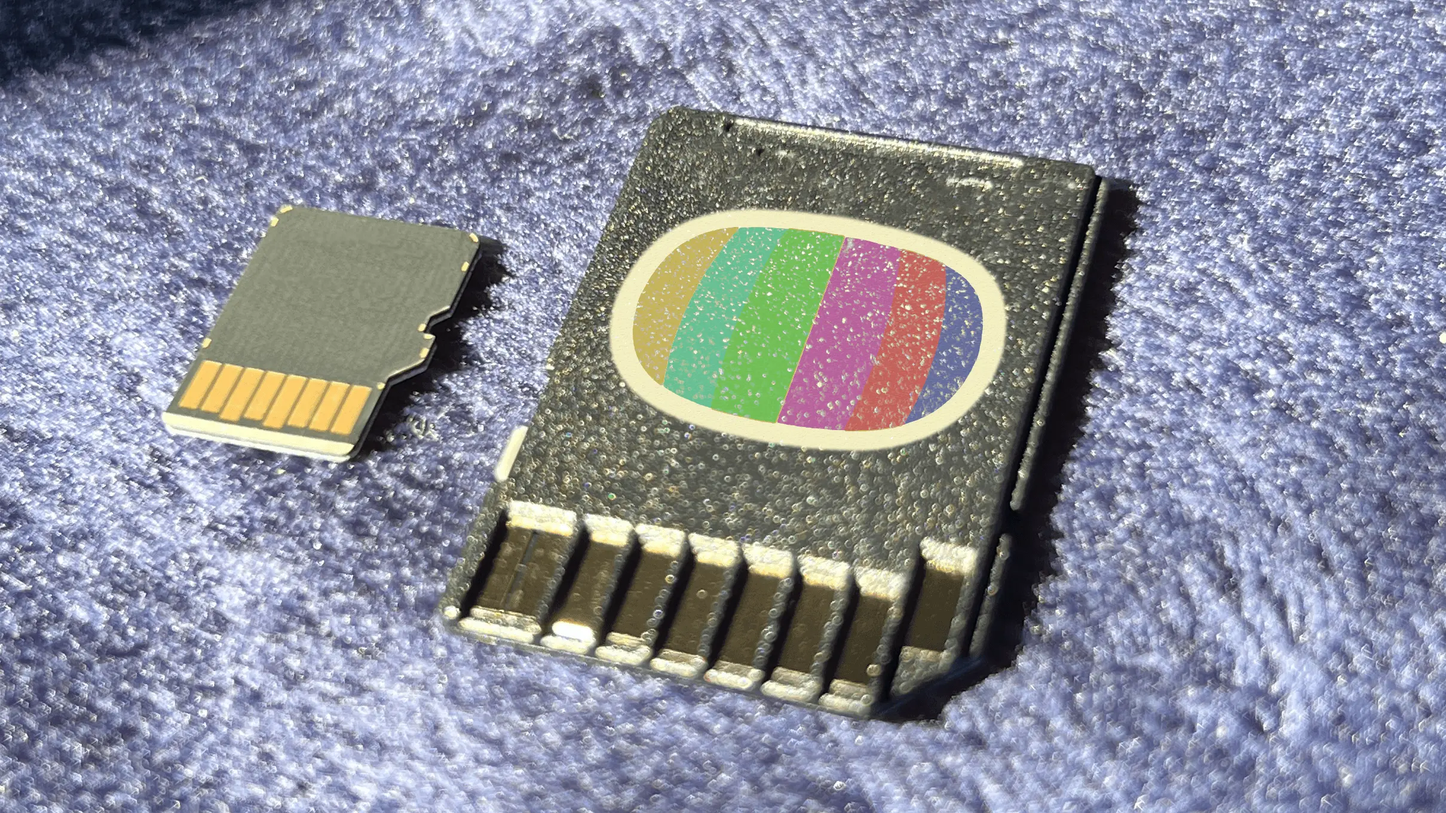
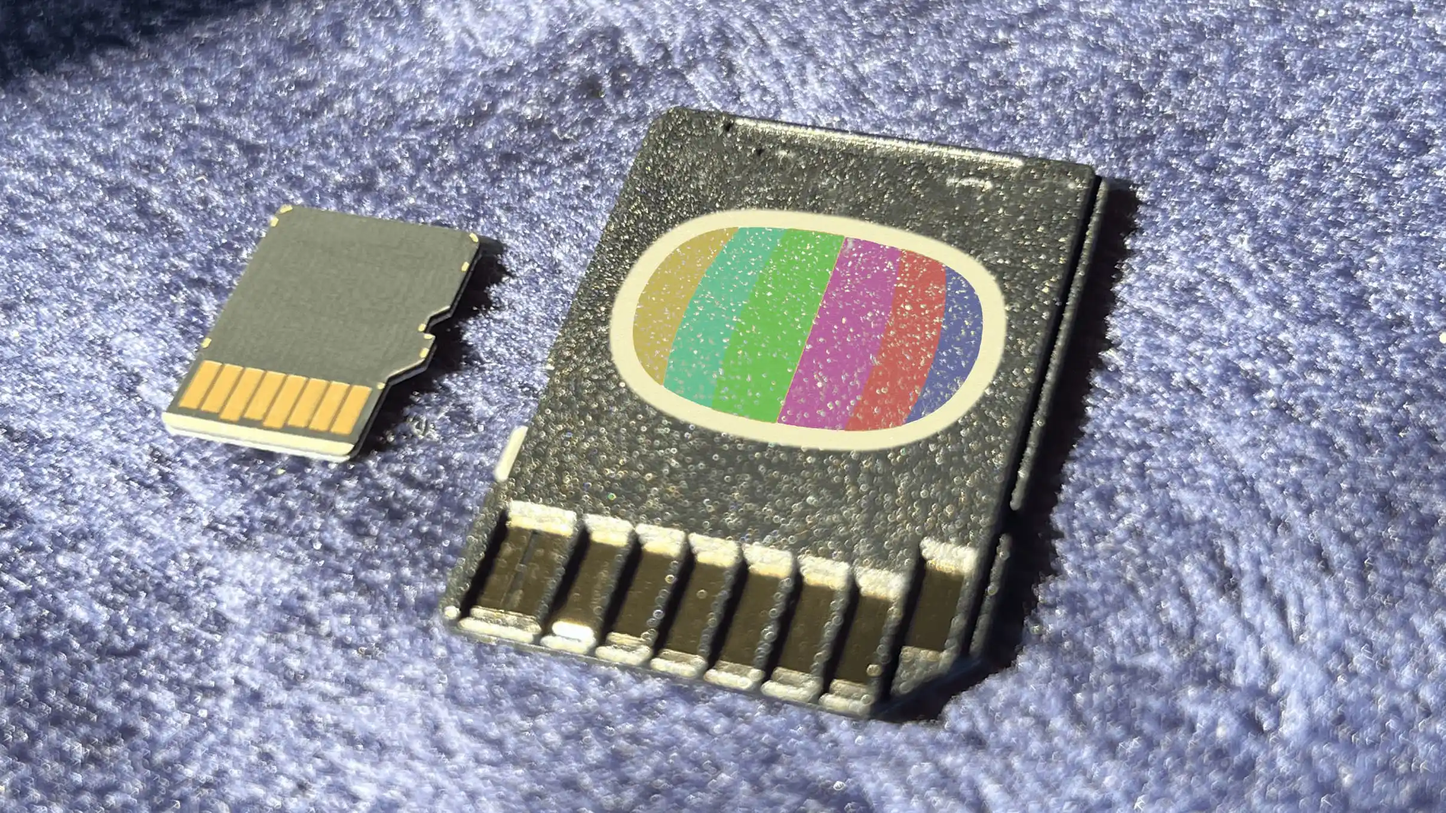
.webp

diff --git a/20250524.html b/20250524.html
@@ -9,7 +9,7 @@
     <link
       rel="icon"
       type="image/x-icon"
-      href="Media/Images/Square44x44Logo.targetsize-32.png"
+      href="Media/Images/Square44x44Logo.targetsize-32.webp"
     />
     <link
       rel="preload"
@@ -106,25 +106,25 @@
   <body> 
     <h2>20250524</h2>
   <br />
-  <img src="..\Media\Images\20250524\Scan_20250524 (1).png" alt="HTML5 Icon" loading="lazy" >
+  <img src="..\Media\Images\20250524\Scan_20250524 (1).webp" alt="HTML5 Icon" loading="lazy" >
   <br />
   <br />
-  <img src="..\Media\Images\20250524\Scan_20250524 (2).png" alt="HTML5 Icon" loading="lazy" >
+  <img src="..\Media\Images\20250524\Scan_20250524 (2).webp" alt="HTML5 Icon" loading="lazy" >
   <br />
   <br />
-  <img src="..\Media\Images\20250524\Scan_20250524 (3).png" alt="HTML5 Icon" loading="lazy" >
+  <img src="..\Media\Images\20250524\Scan_20250524 (3).webp" alt="HTML5 Icon" loading="lazy" >
   <br />
   <br />
-  <img src="..\Media\Images\20250524\Scan_20250524 (4).png" alt="HTML5 Icon" loading="lazy" >
+  <img src="..\Media\Images\20250524\Scan_20250524 (4).webp" alt="HTML5 Icon" loading="lazy" >
   <br />
   <br />
-  <img src="..\Media\Images\20250524\Scan_20250524 (5).png" alt="HTML5 Icon" loading="lazy" >
+  <img src="..\Media\Images\20250524\Scan_20250524 (5).webp" alt="HTML5 Icon" loading="lazy" >
   <br />
   <br />
-  <img src="..\Media\Images\20250524\Scan_20250524 (6).png" alt="HTML5 Icon" loading="lazy" >
+  <img src="..\Media\Images\20250524\Scan_20250524 (6).webp" alt="HTML5 Icon" loading="lazy" >
   <br />
   <br />
-  <img src="..\Media\Images\20250524\Scan_20250524 (7).png" alt="HTML5 Icon" loading="lazy" >
+  <img src="..\Media\Images\20250524\Scan_20250524 (7).webp" alt="HTML5 Icon" loading="lazy" >
    <br />
 
   <br />

diff --git a/email.html b/email.html
@@ -10,7 +10,7 @@
   <link
     rel="icon"
     type="image/x-icon"
-    href="Media/Images/Square44x44Logo.targetsize-32.png"
+    href="Media/Images/Square44x44Logo.targetsize-32.webp"
   />
   <style>
       body {
@@ -172,7 +172,7 @@ button:hover{
  📧 EMail List
   </h3>
   <br />
-<img src="..\Media\Images\cornersky.jpg" alt="HTML5 Icon" loading="lazy" >
+<img src="..\Media\Images\cornersky.webp" alt="HTML5 Icon" loading="lazy" >
   <br />
   <br />
   
@@ -191,7 +191,7 @@ button:hover{
     -webkit-transform: scale(1);
     transform-origin: 0 0;
     -webkit-transform-origin: 0 0;
-    height: ;
+    height: auto;
     }
 
     .sr-only {

diff --git a/index.html b/index.html
@@ -9,7 +9,7 @@
     <link
       rel="icon"
       type="image/x-icon"
-      href="Media/Images/Square44x44Logo.targetsize-32.png"
+      href="Media/Images/Square44x44Logo.targetsize-32.webp"
     />
     <link
       rel="preload"
@@ -110,7 +110,7 @@
   <br />
   </header>
   <body> 
-  <img src="..\Media\Images\underconstruciton seal.jpg" alt="HTML5 Icon" loading="lazy" >
+  <img src="..\Media\Images\underconstruciton seal.webp" alt="HTML5 Icon" loading="lazy" >
       <h2></h2>
       <h3>entries</h3>
       <button onclick="window.location.href = '20250524';">20250524</button>

diff --git a/about.html b/about.html
@@ -10,7 +10,7 @@
   <link
     rel="icon"
     type="image/x-icon"
-    href="Media/Images/Square44x44Logo.targetsize-32.png"
+    href="Media/Images/Square44x44Logo.targetsize-32.webp"
   />
   <style>
       body {
@@ -98,7 +98,7 @@
   <h3>
  ❓ About 
   </h3><br />
-  <img src="..\Media\Images\flashed circuit.png" alt="HTML5 Icon" loading="lazy" >
+  <img src="..\Media\Images\flashed circuit.webp" alt="HTML5 Icon" loading="lazy" >
       <h2></h2>
   <p>
     somespace began in 2018 — streaming games while separately sharing music and art.

diff --git a/404.html b/404.html
@@ -8,7 +8,7 @@
     <link
       rel="icon"
       type="image/x-icon"
-      href="Media/Images/Square44x44Logo.targetsize-32.png"
+      href="Media/Images/Square44x44Logo.targetsize-32.webp"
     />
     <link
       rel="preload"
@@ -73,7 +73,7 @@
     </h3>
     <br />
     <a href="https://youtu.be/rEWeB6nvAGU">
-    <img src="..\Media\Images\sdcard.jpg" alt="HTML5 Icon" height="auto" loading="lazy" >
+    <img src="..\Media\Images\sdcard.webp" alt="HTML5 Icon" height="auto" loading="lazy" >
     </a>
     <br />
     <br />

diff --git a/music.html b/music.html
@@ -10,7 +10,7 @@
   <link
     rel="icon"
     type="image/x-icon"
-    href="Media/Images/Square44x44Logo.targetsize-32.png"
+    href="Media/Images/Square44x44Logo.targetsize-32.webp"
   />
   <style>
       body {
@@ -98,7 +98,7 @@
   <h3>
 💿 Music
   </h3><br />
-  <img src="..\Media\Images\iem.jpg" alt="HTML5 Icon" loading="lazy" >
+  <img src="..\Media\Images\iem.webp" alt="HTML5 Icon" loading="lazy" >
       <h2></h2>
     <br />
     <p style="      

diff --git a/rules.html b/rules.html
@@ -10,7 +10,7 @@
   <link
     rel="icon"
     type="image/x-icon"
-    href="Media/Images/Square44x44Logo.targetsize-32.png"
+    href="Media/Images/Square44x44Logo.targetsize-32.webp"
   />
   <style>
     body {
@@ -67,7 +67,7 @@
       ><img
         height="40"
         width="auto"
-        src="Media/Images/somespacevisor.png"
+        src="Media/Images/somespacevisor.webp"
         alt="logo"
     /></a>
   </h1>

diff --git a/faq.html b/faq.html
@@ -9,7 +9,7 @@
     <link
       rel="icon"
       type="image/x-icon"
-      href="Media/Images/Square44x44Logo.targetsize-32.png"
+      href="Media/Images/Square44x44Logo.targetsize-32.webp"
     />
   <style>
       body {

diff --git a/subscribe.html b/subscribe.html
@@ -10,7 +10,7 @@
   <link
     rel="icon"
     type="image/x-icon"
-    href="Media/Images/Square44x44Logo.targetsize-32.png"
+    href="Media/Images/Square44x44Logo.targetsize-32.webp"
   />
   <style>
       body {
